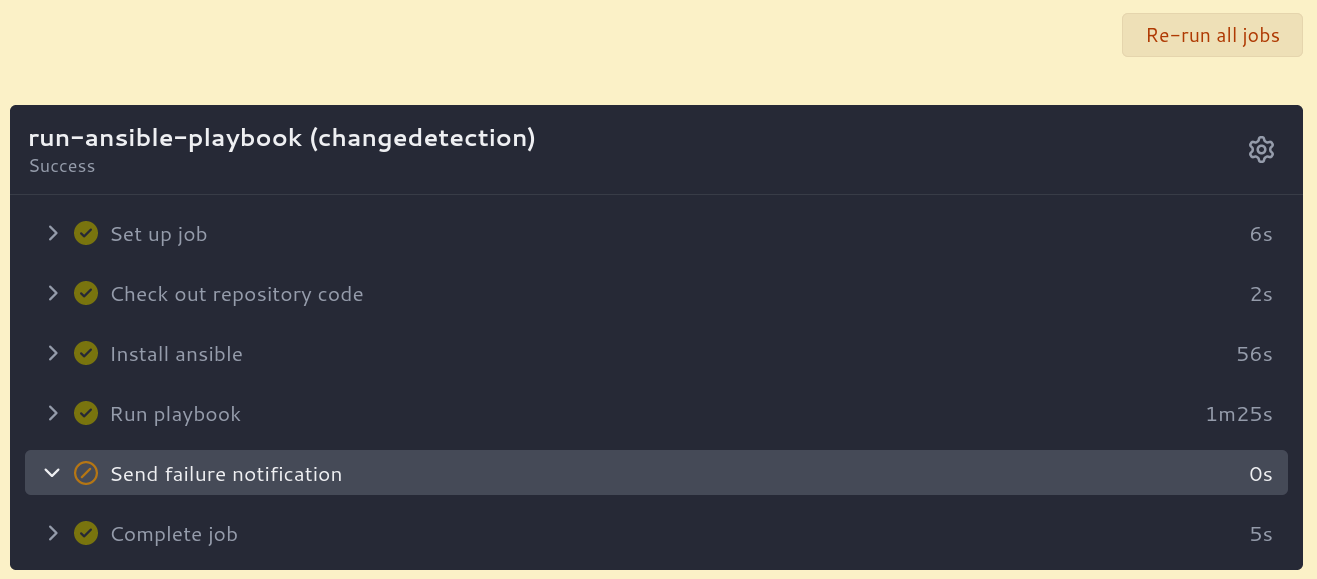
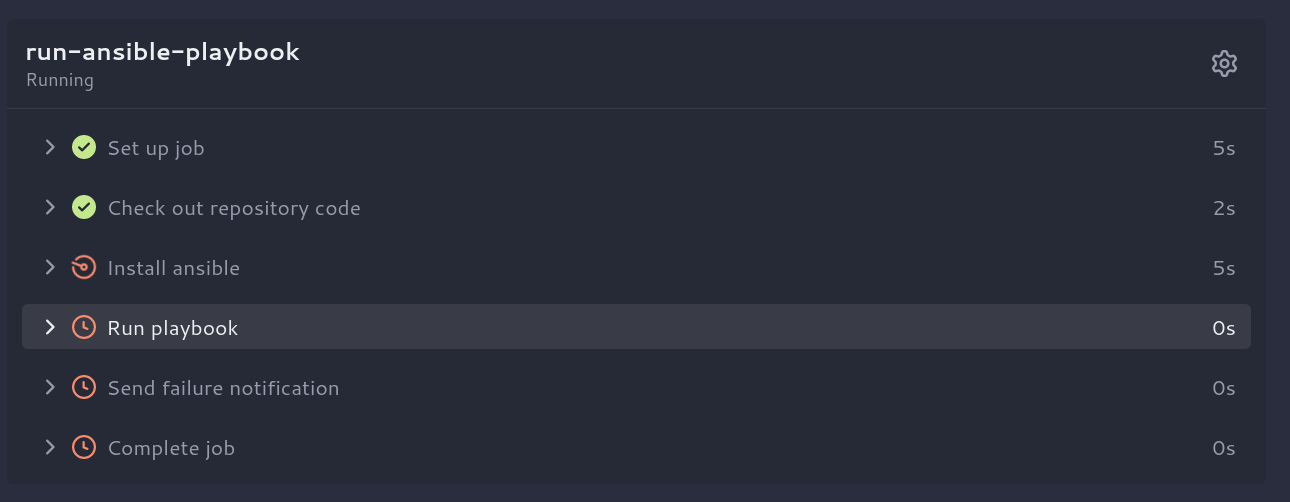
Update gitea themes

diff --git a/content/blog/setting-up-gitea-actions-with-tailscale/index.md b/content/blog/setting-up-gitea-actions-with-tailscale/index.md
@@ -109,8 +109,8 @@ I discovered some themes for gitea [here](https://git.sainnhe.dev/sainnhe/gitea-
 I added the theme by cloning [theme-gruvbox-auto.css](https://git.sainnhe.dev/sainnhe/gitea-themes/raw/branch/master/dist/theme-gruvbox-auto.css) into `./data/gitea/public/assets/css`. I then added the following to `environment` in `docker-compose.yml`:
 
 ```yaml
-- GITEA__ui__DEFAULT_THEME=gruvbox-auto
-- GITEA__ui__THEMES=gruvbox-auto
+- GITEA__ui__DEFAULT_THEME=palenight
+- GITEA__ui__THEMES=palenight
 ```
 
 After restarting the gitea instance, the default theme was applied.
@@ -120,8 +120,6 @@ After restarting the gitea instance, the default theme was applied.
 I installed the runner by [following the docs](https://docs.gitea.com/usage/actions/quickstart#set-up-runner). I opted for installing it on a separate host as recommended in the docs. I used the systemd unit file to ensure that the runner comes back online after system reboots. I installed tailscale on the gitea runner as well, so that it can be part of the same tailnet as the main instance.
 
 After registering this runner and starting the daemon, the runner appeared in `/admin/actions/runners`. I added two other runners to help with parallelization.
-
-![image](gitea-runners.png)
 
 ## Running a workflow
 
